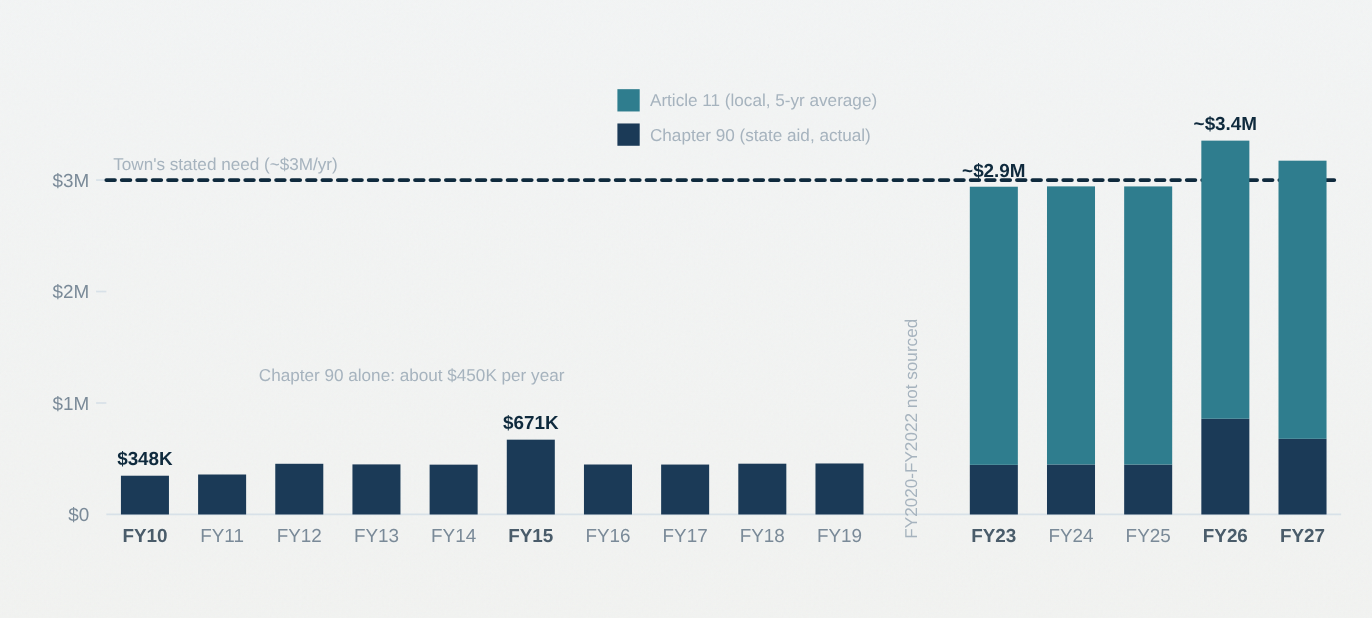
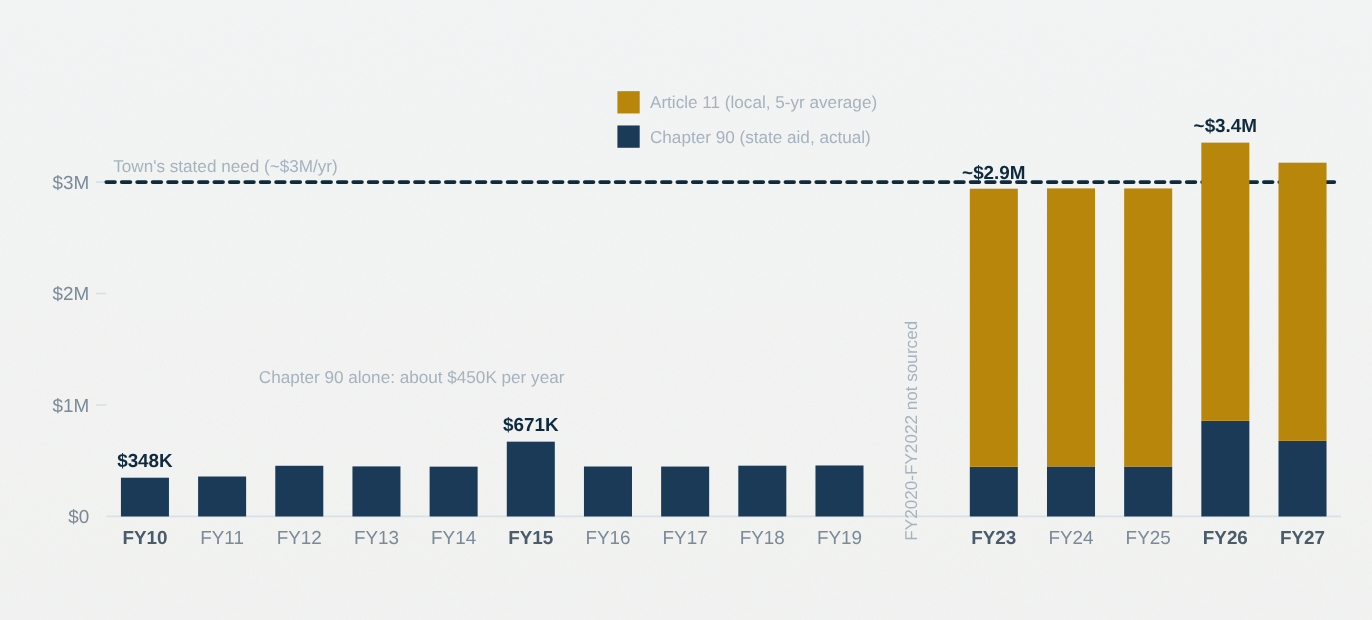
fix: readability + reader questions on roads page
- Chart: switch Article 11 series from teal to brass for clear contrast vs navy Chapter 90
- Link 'Complete Streets' to the archived 2019 Prioritization Plan
- Clarify $23.78M = town-wide authorized-but-unissued (roads is one slice)
- Define ARPA (American Rescue Plan Act) on first use

diff --git a/roads.html b/roads.html
@@ -64,7 +64,7 @@ og_image: /assets/og/roads.png
     <p class="deep-dive-teaser">The seven-step utility-first order, the three constraints on going faster, and the contractor doing the paving.</p>
   </summary>
   <div class="deep-dive-body">
-    <p>The town's guide lays out a fixed order for each street. Gas line upgrades by National Grid come first, then water main and sewer work, then a Complete Streets and bike plan review, then state-mandated <abbr class="g" title="Americans with Disabilities Act">ADA</abbr> curb ramp installation, then evaluation of trees, parking, and drainage, then sidewalk improvements, and only after all of that is done, final paving. The guide notes residents may see utility or ramp work well before the surface is finished, and says this order is by design to protect the investment.<sup class="cite" data-href="data/town_docs/Marblehead-Roads-Information-Guide.txt" data-source="Marblehead's Roads: What Voters Need to Know (town-authored voter's guide, advocacy), 'How Each Road Is Fixed': underground infrastructure must precede pavement, following a seven-step sequence (1. gas line upgrades / National Grid, 2. water main and sewer, 3. Complete Streets and bike plan review, 4. ADA curb ramp installation (state-mandated), 5. tree, parking and drainage evaluation, 6. sidewalk improvements, 7. final paving only after all prior steps complete). States this order is 'by design to protect the investment.'"></sup></p>
+    <p>The town's guide lays out a fixed order for each street. Gas line upgrades by National Grid come first, then water main and sewer work, then a <a href="/data/town_docs/Complete-Streets-Prioritization-Plan-2019.pdf">Complete Streets</a> and bike plan review, then state-mandated <abbr class="g" title="Americans with Disabilities Act">ADA</abbr> curb ramp installation, then evaluation of trees, parking, and drainage, then sidewalk improvements, and only after all of that is done, final paving. The guide notes residents may see utility or ramp work well before the surface is finished, and says this order is by design to protect the investment.<sup class="cite" data-href="data/town_docs/Marblehead-Roads-Information-Guide.txt" data-source="Marblehead's Roads: What Voters Need to Know (town-authored voter's guide, advocacy), 'How Each Road Is Fixed': underground infrastructure must precede pavement, following a seven-step sequence (1. gas line upgrades / National Grid, 2. water main and sewer, 3. Complete Streets and bike plan review, 4. ADA curb ramp installation (state-mandated), 5. tree, parking and drainage evaluation, 6. sidewalk improvements, 7. final paving only after all prior steps complete). States this order is 'by design to protect the investment.'"></sup></p>
     <p>The guide gives three real-world limits on doing more, faster. It says simultaneous road closures across town would be unworkable for residents and businesses, that only a limited number of qualified firms bid competitively across many municipalities at once, and that New England winters restrict the viable paving window. On those grounds the guide states the town can effectively invest about $3 million a year on roads, and that spending more faster is not feasible given contractor capacity, weather, and traffic constraints.<sup class="cite" data-href="data/town_docs/Marblehead-Roads-Information-Guide.txt" data-source="Marblehead's Roads: What Voters Need to Know (town-authored voter's guide, advocacy), 'Three Real-World Constraints': traffic management (multiple simultaneous closures unworkable for residents and businesses), contractor availability (limited qualified firms with competitive bids across many municipalities), and construction season (New England winters restrict the viable paving window). Summary line: 'The Town can effectively invest ~$3M/year on roads. Spending more faster is not feasible given contractor capacity, weather, and traffic constraints.'"></sup></p>
     <p>To sequence all of this, the DPW meets quarterly with the Water and Sewer Commission and National Grid and is developing a Master Transportation Plan so that final paving follows the underground and utility work.<sup class="cite" data-href="data/town_docs/annual_reports/Annual-Report-2025.txt" data-source="Marblehead Annual Report 2025, DPW Message from the Director: 'The Department of Public Works continues to advance the development of a Master Transportation Plan. This effort includes coordination of infrastructure improvements that affect final paving and sidewalk upgrades. The DPW met quarterly with the Water and Sewer Commission and National Grid to review capital improvement plans and coordinate project sequencing in conjunction with the Town's pavement management plan.'"></sup> A September 2025 update to the Select Board, for example, paired full-depth reclamation paving of West, Mystic, and Florence Streets with water and gas utility work elsewhere in town.<sup class="cite" data-href="data/minutes/select_board/2025-09-10.txt" data-source="Marblehead Select Board minutes, September 10, 2025, September 2025 Street and Utility Project Update: full-depth reclamation paving for West Street, Mystic Street, and Florence Street beginning September 15, 2025, alongside water utility improvements and gas utility upgrades in other areas of town."></sup> A separate 2019 Complete Streets Prioritization Plan, prepared for <abbr class="g" title="Massachusetts Department of Transportation">MassDOT</abbr> District 4, ranks 28 corridor projects by priority; these are safety, sidewalk, curb-ramp, and bike-accommodation projects, not a pavement-condition ranking.<sup class="cite" data-href="data/town_docs/Complete-Streets-Prioritization-Plan-2019.txt" data-source="Marblehead Complete Streets Funding Program Project Prioritization Plan, dated 4/19/2019, prepared by Rebecca Curran Cutting / Town Planner, MassDOT District 4. A ranked list of 28 projects (rail-trail upgrades, ADA curb ramps, sidewalks, bikeable shoulders, crossing safety), each with an estimated project cost. Archived at data/town_docs/Complete-Streets-Prioritization-Plan-2019.pdf."></sup></p>
     <p>The split between in-house and contracted work is long-standing. Town crews do patching and maintenance; the capital repaving under Article 11 has been done by D&R General Contracting Inc since 2023, named as the paving contractor in the 2023, 2024, and 2025 annual reports.<sup class="cite" data-href="data/town_docs/annual_reports/Annual-Report-2023.txt" data-source="Marblehead Annual Report 2023, 'ARTICLE 11, 2022 - Road and Sidewalk Repair Program': 2023 Paving contractor listed as D&R General Contracting Inc (Elm St, Elm Pl, Story Terr, Watson St, Rockaway St, Wyman Rd, Ocean Ave, Beacon St). D&R General Contracting Inc is also named as the Article 11 paving contractor in the 2024 (State and Commercial Street) and 2025 (full-depth reclamation of West, Mystic, and Florence) annual reports."></sup></p>
@@ -111,7 +111,7 @@ og_image: /assets/og/roads.png
              X: 16 slots of 45px from x=62; slot i left = 62 + 45*i; bar width 28, left = slot + 8.5; center = slot + 22.5.
              Slot 10 (FY2020-2022) blank: no Chapter 90 figure sourced.
              FY2023-FY2027 (slots 11-15): Chapter 90 (s-marblehead) base with Article 11
-             (s-tier-2, $2,495,000 = $12,475,000 / 5 yr) stacked on top. -->
+             (s-swampscott, $2,495,000 = $12,475,000 / 5 yr) stacked on top. -->
 
         <!-- Y grid, ticks and labels: $0, $1M, $2M, $3M -->
         <line class="axis-base" x1="62" y1="300" x2="782" y2="300"/>
@@ -128,7 +128,7 @@ og_image: /assets/og/roads.png
         <text class="annotation" x="66" y="99" text-anchor="start">Town's stated need (~$3M/yr)</text>
 
         <!-- Legend -->
-        <rect class="data-bar s-tier-2" x="360" y="52" width="13" height="13"/>
+        <rect class="data-bar s-swampscott" x="360" y="52" width="13" height="13"/>
         <text class="annotation" x="379" y="62" text-anchor="start">Article 11 (local, 5-yr average)</text>
         <rect class="data-bar s-marblehead" x="360" y="72" width="13" height="13"/>
         <text class="annotation" x="379" y="82" text-anchor="start">Chapter 90 (state aid, actual)</text>
@@ -153,7 +153,7 @@ og_image: /assets/og/roads.png
         </g>
 
         <!-- Article 11 local capital (~$2.5M/yr = $12.475M / 5 yr), stacked on FY2023-FY2027 -->
-        <g class="s-tier-2">
+        <g class="s-swampscott">
           <rect class="data-bar" x="565.5" y="108.88" width="28" height="162.18"/>
           <rect class="data-bar" x="610.5" y="108.68" width="28" height="162.18"/>
           <rect class="data-bar" x="655.5" y="108.71" width="28" height="162.18"/>
@@ -192,10 +192,10 @@ og_image: /assets/og/roads.png
       </svg>
     </div>
 
-    <p class="chart-note">Chapter 90 (navy) is actual apportionment. Article 11 (teal) is shown at its five-year average rate ($12,475,000 divided by five); actual borrowing has lagged, with $6.98 million of the $12,475,000 still unissued as of the FY25 audit, so the teal bars reflect the program's planned pace rather than audited annual spending. The dashed line is the town's own roughly $3 million estimate, not an independent needs assessment. FY2020 through FY2022 are omitted because no Chapter 90 figure for those years was sourced.</p>
+    <p class="chart-note">Chapter 90 (navy) is actual apportionment. Article 11 (gold) is shown at its five-year average rate ($12,475,000 divided by five); actual borrowing has lagged, with $6.98 million of the $12,475,000 still unissued as of the FY25 audit, so the gold bars reflect the program's planned pace rather than audited annual spending. The dashed line is the town's own roughly $3 million estimate, not an independent needs assessment. FY2020 through FY2022 are omitted because no Chapter 90 figure for those years was sourced.</p>
 
-    <p>"Article 11" is just warrant item number 11 on the 2022 Annual Town Meeting agenda, the item voters took up when they reached it. It authorized $12,475,000 "to pay costs to fund a road and sidewalk repair for the next five (5) years," the appropriation the town describes as Marblehead's first local capital investment for roads and sidewalks.<sup class="cite" data-href="data/town_docs/annual_reports/Annual-Report-2022.txt" data-source="Marblehead Annual Report 2022, which reproduces the 2022 Annual Town Meeting warrant. Article 11 (Capital Improvements), item (a): '$12,475,000 to pay costs to fund a road and sidewalk repair for the next five (5) years, for the payment of all other costs incidental and related thereto including engineering and design.' Voted by paper ballot, Yes 406 No 114, two-thirds vote achieved."></sup><sup class="cite" data-href="data/town_docs/Marblehead-Roads-Information-Guide.txt" data-source="Marblehead's Roads: What Voters Need to Know (town-authored voter's guide, advocacy). States that in 2022 voters approved Article 11, Marblehead's first-ever local capital investment for roads and sidewalks."></sup> The warrant says five years; the town's own guide calls it a three-year program, a discrepancy the town does not explain.<sup class="cite" data-href="data/town_docs/Marblehead-Roads-Information-Guide.txt" data-source="Marblehead's Roads: What Voters Need to Know (town-authored voter's guide). The guide describes 'the three-year Capital Improvement Road Program' funded through Article 11, while the 2022 Town Meeting warrant authorizing the $12,475,000 states 'for the next five (5) years.'"></sup> As of the FY25 audited financial statements, $6.98 million of that authorization remained authorized but unissued for roads and sidewalks, the unspent remainder of the $12.475 million, part of $23.78 million in authorized but unissued debt the town had approved but not yet borrowed against.<sup class="cite" data-href="data/SOURCE_LOOKUP.md" data-source="FY25 ACFR page 57, authorized but unissued debt ($23.78M total at 6/30/2025). Roads and sidewalks line: $6.98M. Compiled in data/SOURCE_LOOKUP.md."></sup> The three-year Capital Improvement Road Program funded through Article 11 covers six corridors, with design and engineering underway on Washington, Pleasant, Atlantic, Humphrey, Village, and West Shore Drive.<sup class="cite" data-href="data/town_docs/Marblehead-Roads-Information-Guide.txt" data-source="Marblehead's Roads: What Voters Need to Know (town-authored voter's guide). The three-year Capital Improvement Road Program is described as fully funded through Article 11, with design and engineering active on Washington, Pleasant, Atlantic, Humphrey, Village, and West Shore Drive."></sup> On paper this brings annual road funding close to the roughly $3 million the town cites, as the chart above shows, though the money is being borrowed more slowly than the five-year schedule implies: $6.98 million of the $12.475 million was still unissued as of the FY25 audit.</p>
-    <p>There is no single line in the town's books for roads. Road money is spread across Chapter 90, the Article 11 capital fund (which also pays for unrelated work such as the high school roof), a federal ARPA grant, a road-safety grant, a street-opening revolving fund, and the operating budget, and many capital payments are not tagged by function.<sup class="cite" data-href="data/roads/road_spend_actual_FY26.md" data-source="FY26 actual road spending (data/roads/road_spend_actual_FY26.md), compiled from data/checkbook_FY26_2026-06-30.csv. Road payments are spread across the Chapter 90, A11 2022 Capital Improvement, COVID-19 ARPA, Road Safety Grant, and Street Opening Revolving funds plus the general-fund operating budget; capital payments (e.g. the Article 11 roadway lines) carry Division = UNDEFINED, i.e. no functional tag."></sup> Pulling the road and sidewalk items together from the FY26 checkbook, the town paid out about $2.1 million on roads in FY2026, most of it roughly $1.9 million in Article 11 road and sidewalk work.<sup class="cite" data-href="data/roads/road_spend_actual_FY26.md" data-source="FY26 actual road spending (data/roads/road_spend_actual_FY26.md), from data/checkbook_FY26_2026-06-30.csv (full FY2026, 2025-07-01 to 2026-06-30). Core total $2,143,971: Article 11 road/sidewalk $1,873,129; Chapter 90 $106,555; ARPA sidewalk/ADA $96,222; PW Maintain Streets operating $50,213; Street Opening Revolving $14,695; Road Safety Grant $1,783; general-fund cold patch $1,374. The $1.87M Article 11 figure is a reproducible keyword match, separate from ~$7.2M of buildings (mostly the high school roof) in the same fund."></sup> That is below the roughly $3 million a year the program is budgeted for, consistent with the borrowing lag above. This is cash paid in FY26, not work performed, and the exact total depends on classification choices (roughly $2.0 to $2.3 million); it excludes road restoration billed inside water and sewer projects.<sup class="cite" data-href="data/roads/road_spend_actual_FY26.md" data-source="FY26 actual road spending (data/roads/road_spend_actual_FY26.md): cash-basis (vendor payments cleared in FY26); classification-dependent range ~$2.0M-$2.3M; deliberately excludes street lighting (~$61K), road restoration billed inside sewer/water capital projects (~$150K, correct project costing), a waste revolving-fund line (~$72K), and an unverified earmark (~$50K, no road description found)."></sup></p>
+    <p>"Article 11" is just warrant item number 11 on the 2022 Annual Town Meeting agenda, the item voters took up when they reached it. It authorized $12,475,000 "to pay costs to fund a road and sidewalk repair for the next five (5) years," the appropriation the town describes as Marblehead's first local capital investment for roads and sidewalks.<sup class="cite" data-href="data/town_docs/annual_reports/Annual-Report-2022.txt" data-source="Marblehead Annual Report 2022, which reproduces the 2022 Annual Town Meeting warrant. Article 11 (Capital Improvements), item (a): '$12,475,000 to pay costs to fund a road and sidewalk repair for the next five (5) years, for the payment of all other costs incidental and related thereto including engineering and design.' Voted by paper ballot, Yes 406 No 114, two-thirds vote achieved."></sup><sup class="cite" data-href="data/town_docs/Marblehead-Roads-Information-Guide.txt" data-source="Marblehead's Roads: What Voters Need to Know (town-authored voter's guide, advocacy). States that in 2022 voters approved Article 11, Marblehead's first-ever local capital investment for roads and sidewalks."></sup> The warrant says five years; the town's own guide calls it a three-year program, a discrepancy the town does not explain.<sup class="cite" data-href="data/town_docs/Marblehead-Roads-Information-Guide.txt" data-source="Marblehead's Roads: What Voters Need to Know (town-authored voter's guide). The guide describes 'the three-year Capital Improvement Road Program' funded through Article 11, while the 2022 Town Meeting warrant authorizing the $12,475,000 states 'for the next five (5) years.'"></sup> As of the FY25 audited financial statements, $6.98 million of that authorization remained authorized but unissued for roads and sidewalks, the unspent remainder of the $12.475 million. That $6.98 million is one slice of $23.78 million the town had authorized across all its capital projects (including school roofs and building HVAC) but not yet issued bonds for.<sup class="cite" data-href="data/SOURCE_LOOKUP.md" data-source="FY25 ACFR page 57, authorized but unissued debt ($23.78M total at 6/30/2025). Roads and sidewalks line: $6.98M. Compiled in data/SOURCE_LOOKUP.md."></sup> The three-year Capital Improvement Road Program funded through Article 11 covers six corridors, with design and engineering underway on Washington, Pleasant, Atlantic, Humphrey, Village, and West Shore Drive.<sup class="cite" data-href="data/town_docs/Marblehead-Roads-Information-Guide.txt" data-source="Marblehead's Roads: What Voters Need to Know (town-authored voter's guide). The three-year Capital Improvement Road Program is described as fully funded through Article 11, with design and engineering active on Washington, Pleasant, Atlantic, Humphrey, Village, and West Shore Drive."></sup> On paper this brings annual road funding close to the roughly $3 million the town cites, as the chart above shows, though the money is being borrowed more slowly than the five-year schedule implies: $6.98 million of the $12.475 million was still unissued as of the FY25 audit.</p>
+    <p>There is no single line in the town's books for roads. Road money is spread across Chapter 90, the Article 11 capital fund (which also pays for unrelated work such as the high school roof), a federal <abbr class="g" title="American Rescue Plan Act, the 2021 federal COVID-19 relief law">ARPA</abbr> grant, a road-safety grant, a street-opening revolving fund, and the operating budget, and many capital payments are not tagged by function.<sup class="cite" data-href="data/roads/road_spend_actual_FY26.md" data-source="FY26 actual road spending (data/roads/road_spend_actual_FY26.md), compiled from data/checkbook_FY26_2026-06-30.csv. Road payments are spread across the Chapter 90, A11 2022 Capital Improvement, COVID-19 ARPA, Road Safety Grant, and Street Opening Revolving funds plus the general-fund operating budget; capital payments (e.g. the Article 11 roadway lines) carry Division = UNDEFINED, i.e. no functional tag."></sup> Pulling the road and sidewalk items together from the FY26 checkbook, the town paid out about $2.1 million on roads in FY2026, most of it roughly $1.9 million in Article 11 road and sidewalk work.<sup class="cite" data-href="data/roads/road_spend_actual_FY26.md" data-source="FY26 actual road spending (data/roads/road_spend_actual_FY26.md), from data/checkbook_FY26_2026-06-30.csv (full FY2026, 2025-07-01 to 2026-06-30). Core total $2,143,971: Article 11 road/sidewalk $1,873,129; Chapter 90 $106,555; ARPA sidewalk/ADA $96,222; PW Maintain Streets operating $50,213; Street Opening Revolving $14,695; Road Safety Grant $1,783; general-fund cold patch $1,374. The $1.87M Article 11 figure is a reproducible keyword match, separate from ~$7.2M of buildings (mostly the high school roof) in the same fund."></sup> That is below the roughly $3 million a year the program is budgeted for, consistent with the borrowing lag above. This is cash paid in FY26, not work performed, and the exact total depends on classification choices (roughly $2.0 to $2.3 million); it excludes road restoration billed inside water and sewer projects.<sup class="cite" data-href="data/roads/road_spend_actual_FY26.md" data-source="FY26 actual road spending (data/roads/road_spend_actual_FY26.md): cash-basis (vendor payments cleared in FY26); classification-dependent range ~$2.0M-$2.3M; deliberately excludes street lighting (~$61K), road restoration billed inside sewer/water capital projects (~$150K, correct project costing), a waste revolving-fund line (~$72K), and an unverified earmark (~$50K, no road description found)."></sup></p>
 
     <p>A common shorthand holds that roads were left out of the 2026 <a href="/2026-override/">Invest Marblehead override</a>. The town's guide draws a narrower distinction. It says the override does not include road capital funds, and that this is intentional, because the three-year Capital Improvement Road Program is already fully funded through Article 11, with design and engineering underway on the six named corridors.<sup class="cite" data-href="data/town_docs/Marblehead-Roads-Information-Guide.txt" data-source="Marblehead's Roads: What Voters Need to Know (town-authored voter's guide, advocacy), 'Why No Road Funding In The Override?': 'The Invest Marblehead Override does not include road capital funds, and that is intentional. The three-year Capital Improvement Road Program is already fully funded through Article 11.' Corridors underway: Washington, Pleasant, Atlantic, Humphrey, Village, and West Shore Drive."></sup> The same guide says the override does fund something the Capital Plan does not: repairs to roadway sections not scheduled in the next five or more years, filling gaps beyond the current plan.<sup class="cite" data-href="data/town_docs/Marblehead-Roads-Information-Guide.txt" data-source="Marblehead's Roads: What Voters Need to Know (town-authored voter's guide, advocacy), 'What The Override Does Include': 'The Invest Marblehead Override provides funding to address roadway sections needing repairs not scheduled in the next five or more years, filling gaps beyond the current Capital Plan.'"></sup> Voters approved the override in June 2026.</p>
   </div>
